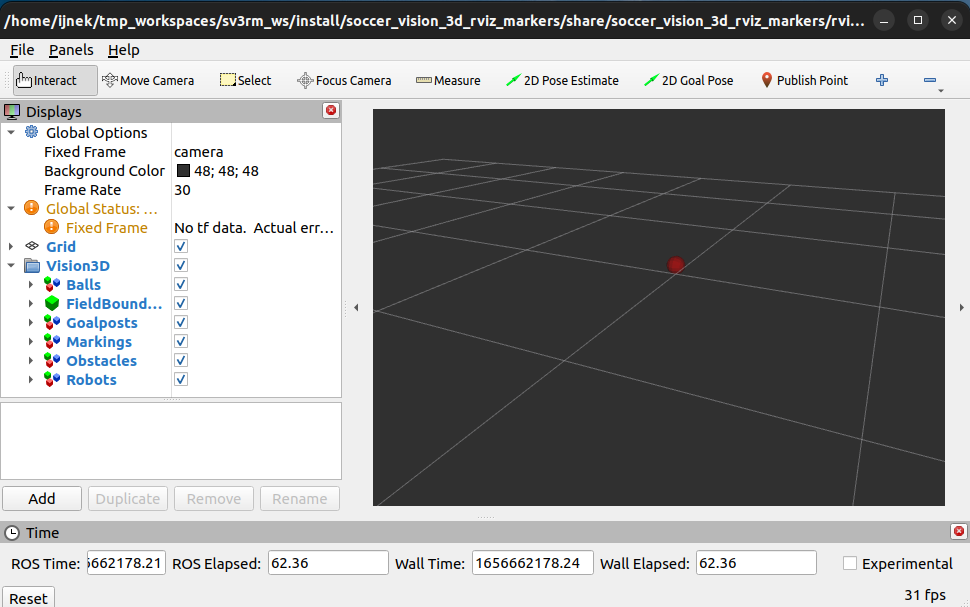
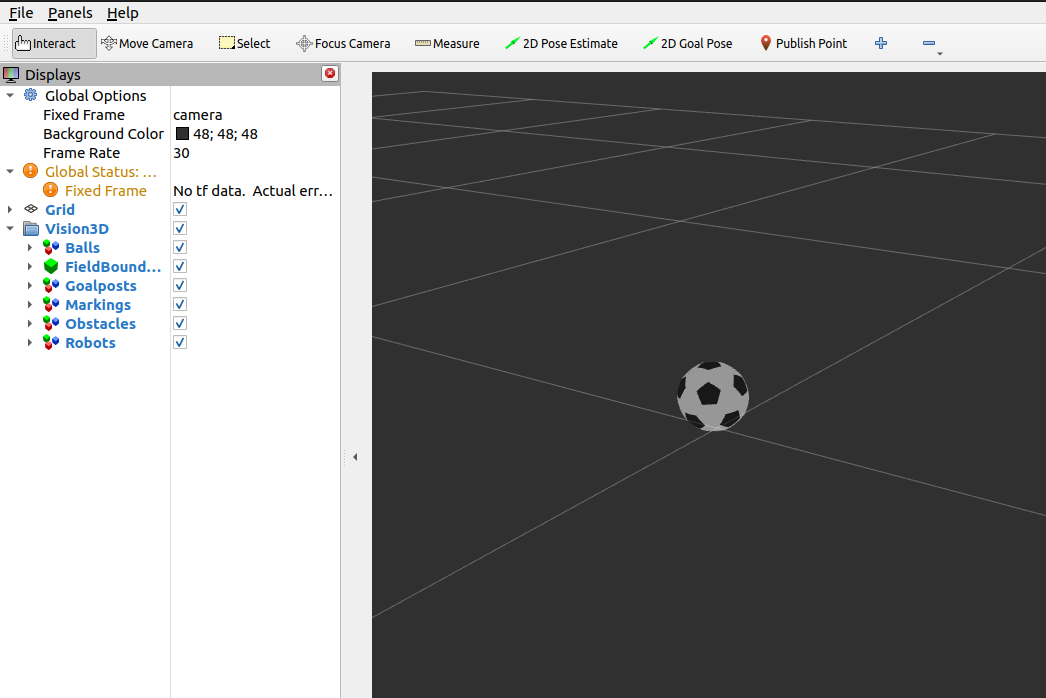
update ball instructions with new black and white ball

diff --git a/ball.rst b/ball.rst
@@ -4,7 +4,7 @@ Ball
 .. figure:: images/ball.png
   :align: center
 
-  Balls are visualized using a **red, spherical** marker
+  Balls are visualized using a **black and white soccer ball** marker
 
 Properties
 **********
@@ -52,7 +52,7 @@ Open RViz2 with a demo configuration:
 
   rviz2 -d $(ros2 pkg prefix --share soccer_vision_3d_rviz_markers)/rviz/demo.rviz
 
-You should see a red ball with 50% transparency displayed in RViz:
+You should see a soccer ball with 50% transparency displayed in RViz:
 
 .. image:: images/ball_rviz.png
   :align: center
